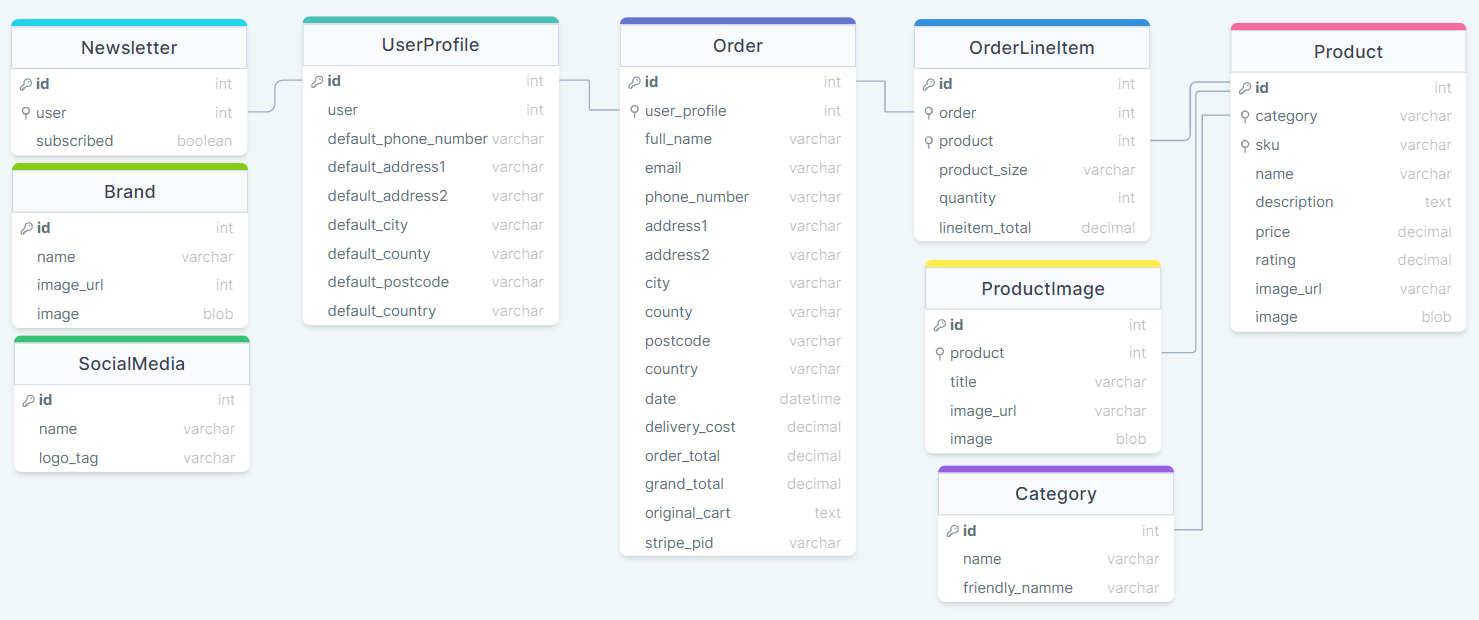
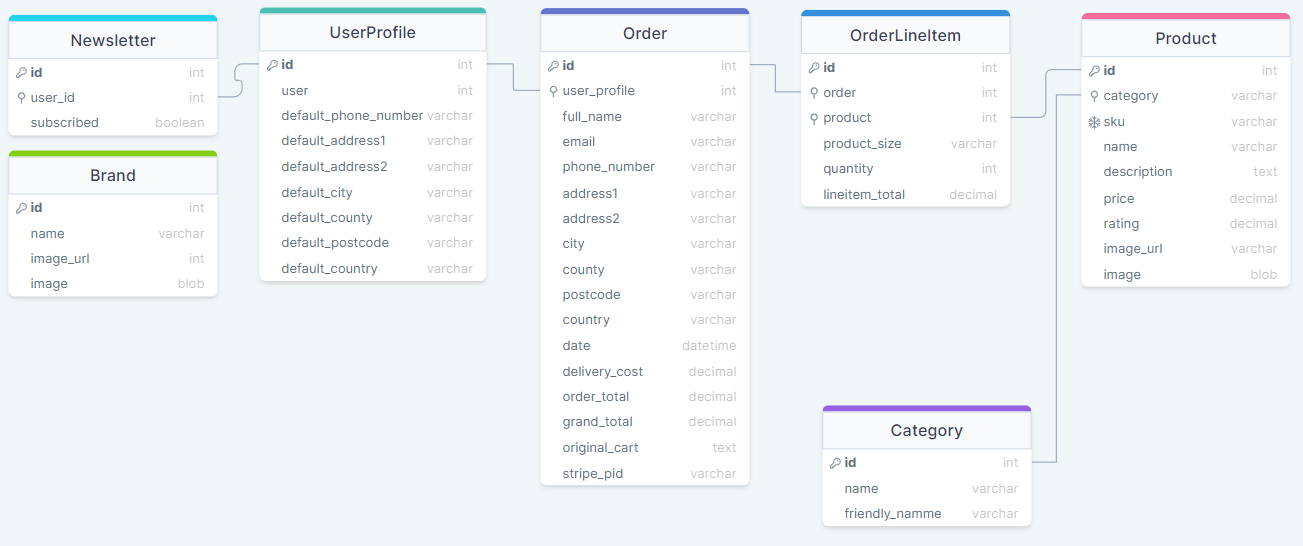
Docs: update database schema image

diff --git a/README.md b/README.md
@@ -380,17 +380,6 @@ Customer supplied all images for the website. Kukladev asked for the images to b
 | image_url | | URLField | max_length=1024, null=True
 | image | | ImageField | null=True, blank=True
 
-\
-&nbsp;
-
-### ProductImage
-
-| Name | Key | Type | Other Details |
-| -- | -- | -- | --
-| product | FK (Product) | | null=True, blank=True, on_delete=models.SET_NULL
-| Title |  | CharField | max_length=254, null=True, unique=True, validators=[MinLengthValidator(3)]
-| image_url |  | ImageField | max_length=1024, null=True, blank=True
-| image |  | ImageField | null=True, blank=True
 
 \
 &nbsp;
@@ -458,18 +447,11 @@ Customer supplied all images for the website. Kukladev asked for the images to b
 | -- | -- | -- | --
 | email | ForeignKey | | null=True, blank=True, unique=True 
 
-### Brand
+### Brands
 | Name | Key | Type | Other Details
 | -- | -- | -- | --
 | name | | CharField | max_length=254, null=True, blank=True
-| image_url |  | ImageField | max_length=1024, null=True, blank=True
 | image |  | ImageField | null=True, blank=True 
-
-### SocialMedia
-| Name | Key | Type | Other Details
-| -- | -- | -- | --
-| name | | CharField |  null=True, blank=True
-| logo_tag |  | CharField | null=True, blank=True
 
 \
 &nbsp;
